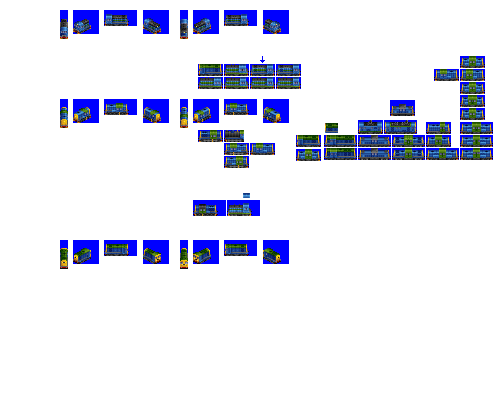
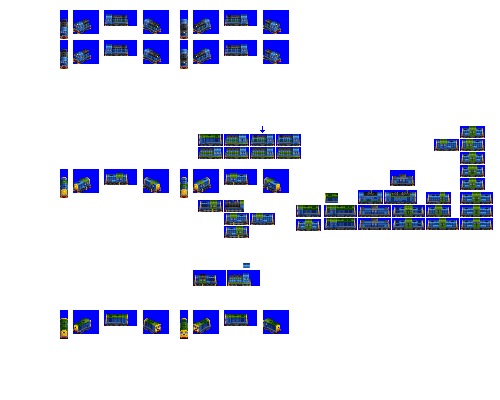
Change: additional banger blue livery for Captain Steel

Changed region(s): [[0.12, 0.09, 0.99, 0.72], [0.12, 0.75, 0.6, 0.87]]

diff --git a/src/vehicles/captain_steel.py b/src/vehicles/captain_steel.py
@@ -16,9 +16,8 @@ def main(roster_id):
         tractive_effort_coefficient=0.375,
         random_reverse=True,
         gen=4,
-        additional_liveries=[],
+        additional_liveries=["BANGER_BLUE"],
         sprites_complete=True,
-        sprites_additional_liveries_needed=True, # banger blue?  industrial yellow?
     )
 
     consist.add_unit(
